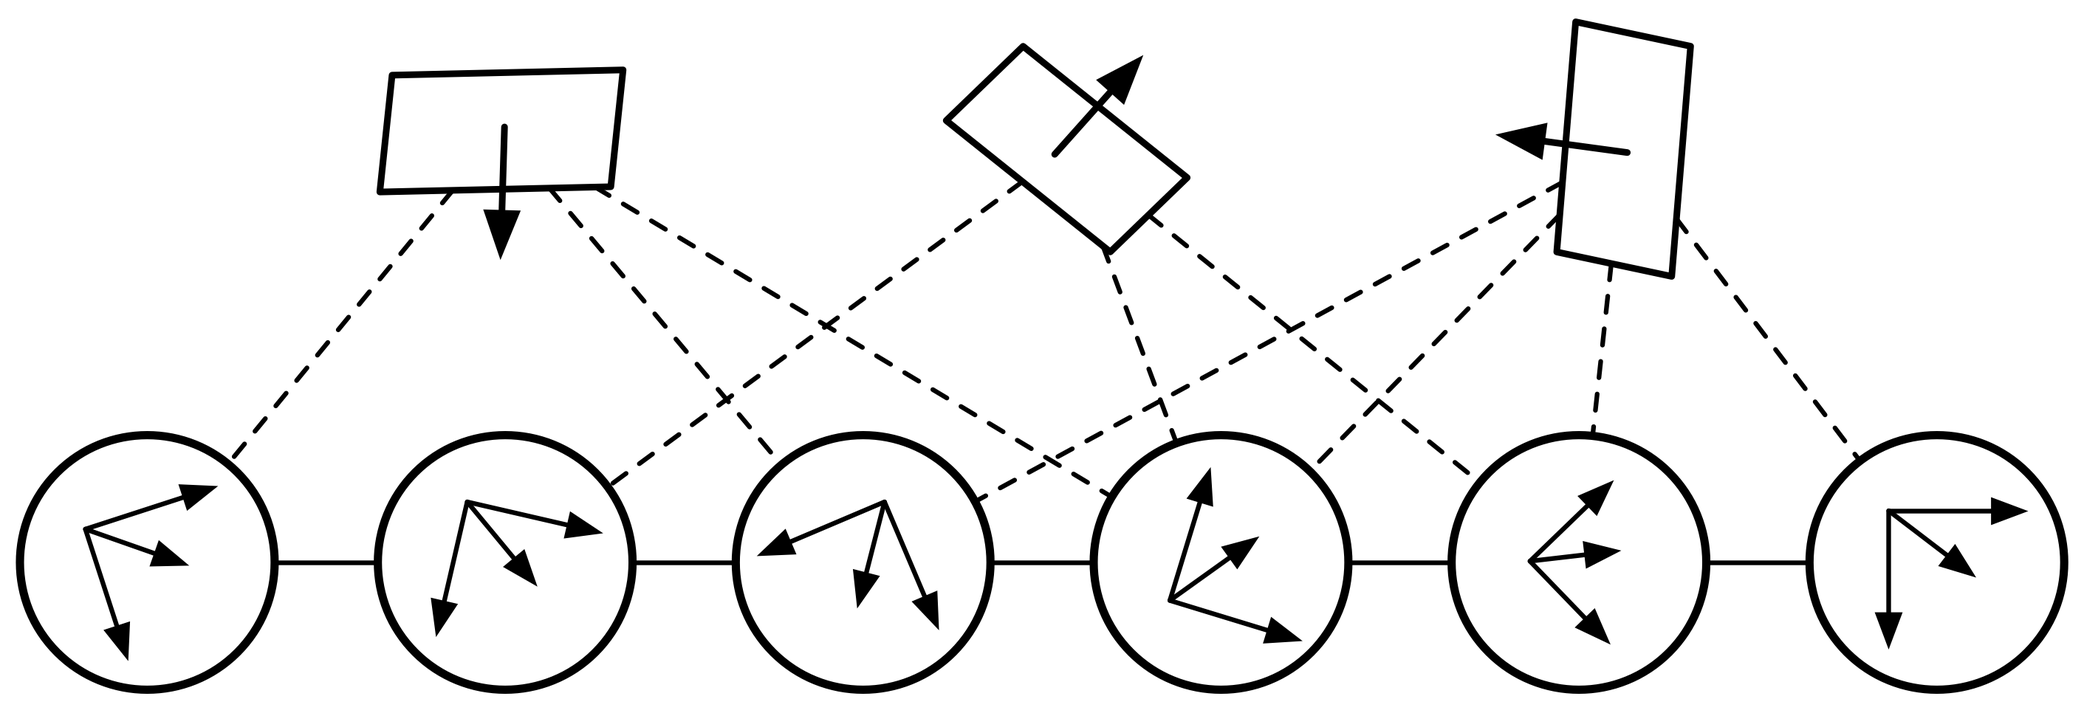
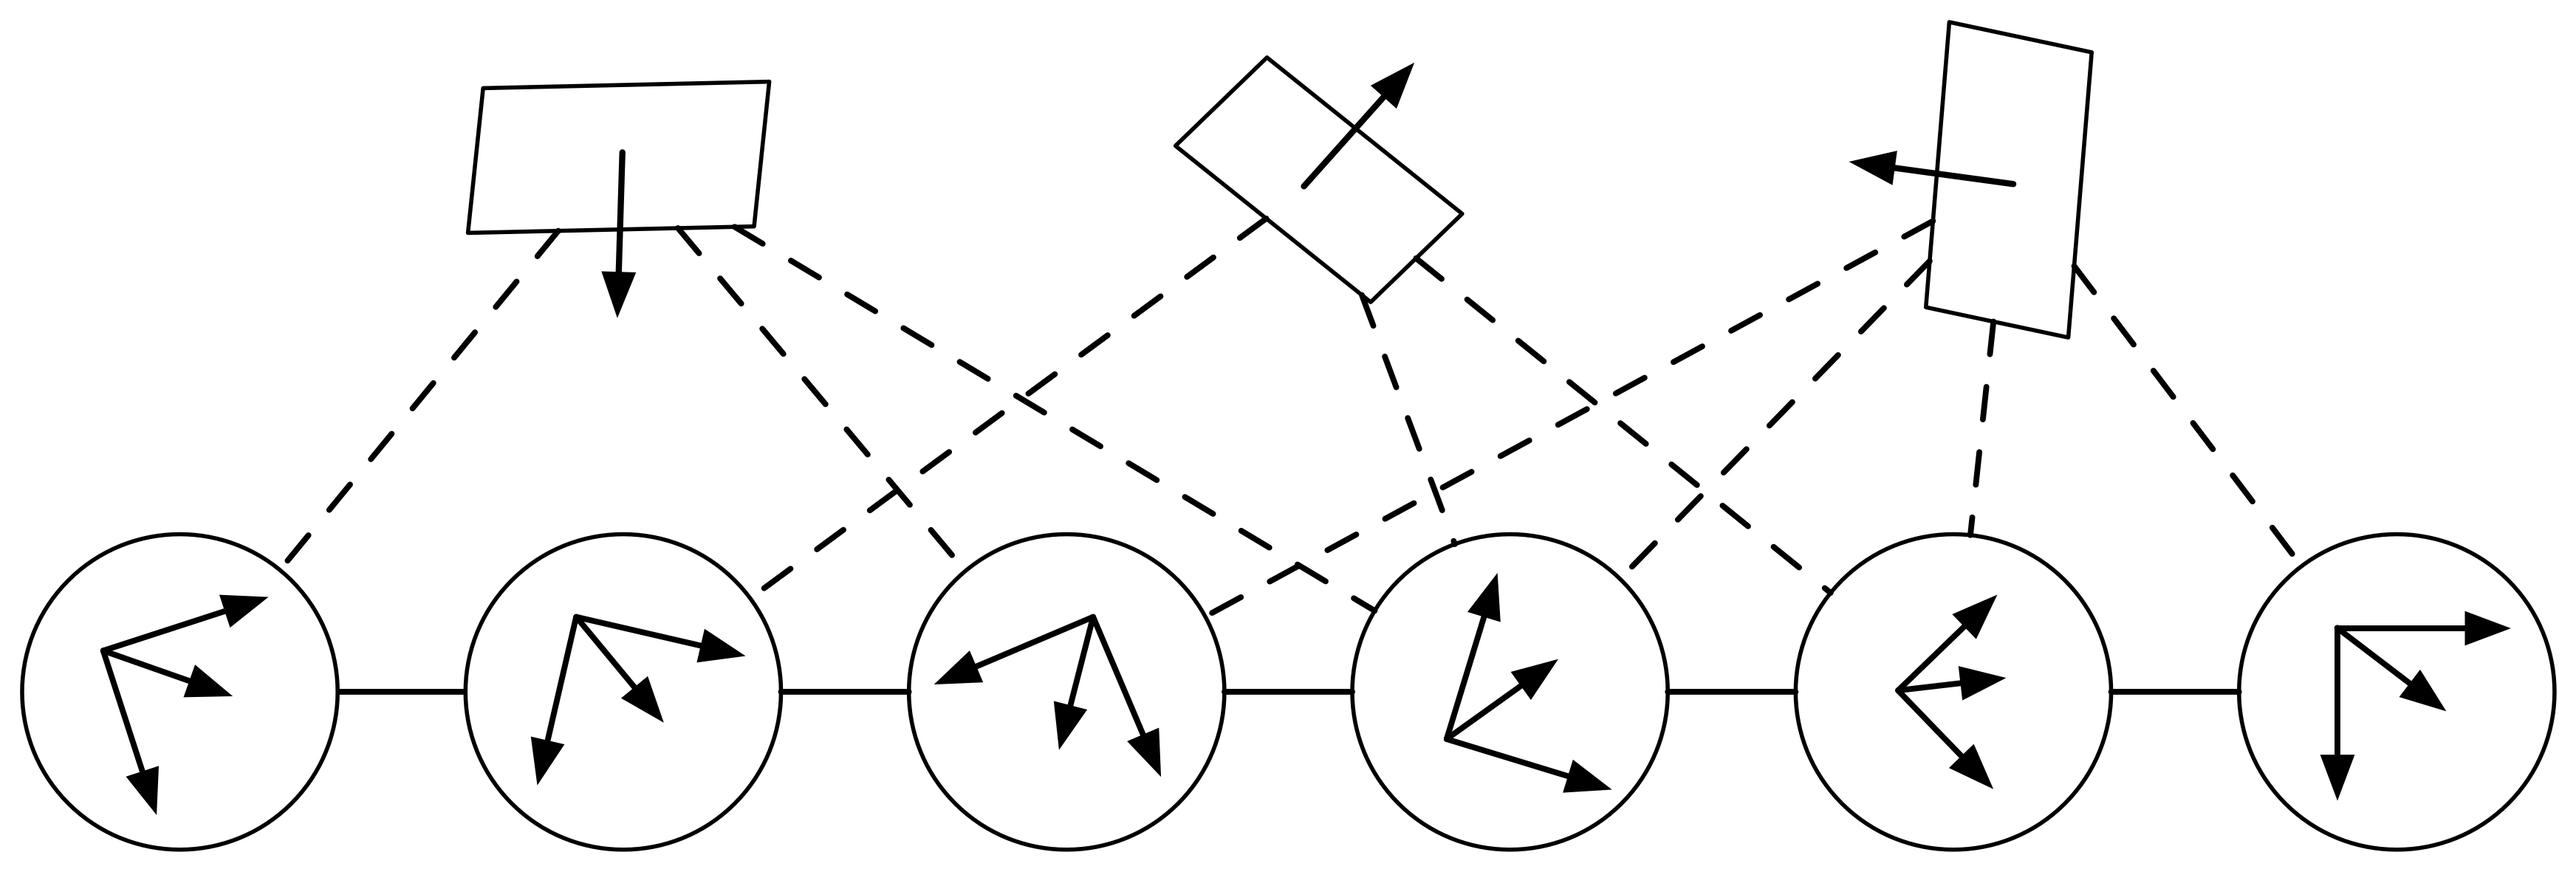
Made graph smaller in about page.

diff --git a/about.md b/about.md
@@ -8,7 +8,7 @@ permalink: /about/
 
 My name is Marc Gallant. I am a PhD candidate at [Queen's University](www.queensu.ca) at the [Mining System Laboratories](https://msl.engineering.queensu.ca) (MSL). My area of study is state estimation in robotics. The image below is an *orientation graph*, which describes how a robot rotates through space and the measurements it makes along the way. I am using orientation graphs to make tools to help geologists and geotechnical engineers safely and efficiently make geotechnical maps. 
 
-![An orientation graph](/images/graph.png)
+<p style="text-align:center"><img src="/images/graph.png" alt="An orientation graph" style="width: 50%; height: 50%"/></p>
 
 The quote at the top of the page is fortunately not self-referential; rather, it is from [one of my favourite movies](http://www.imdb.com/title/tt0128445/). I love playing badminton, shooting darts, drinking craft beer, [trading wool](https://en.wikipedia.org/wiki/Catan), reading science fiction, and [the Oxford comma](https://en.wikipedia.org/wiki/Serial_comma). I am happily married and my wife and I currently expecting our first child and second dog.
 
